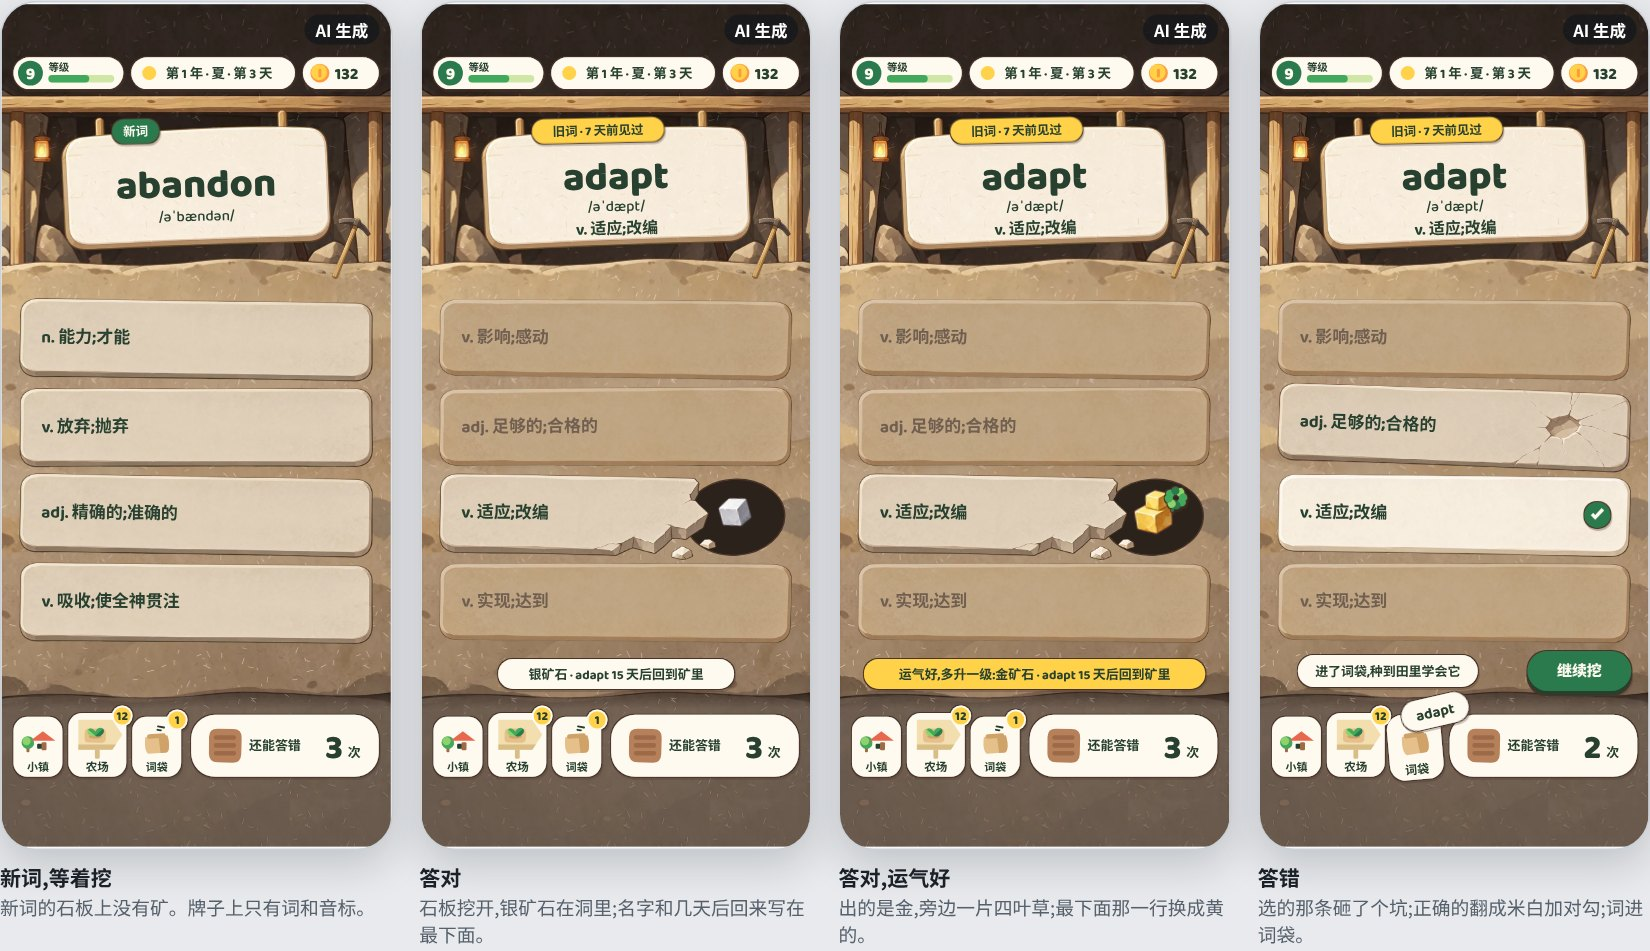
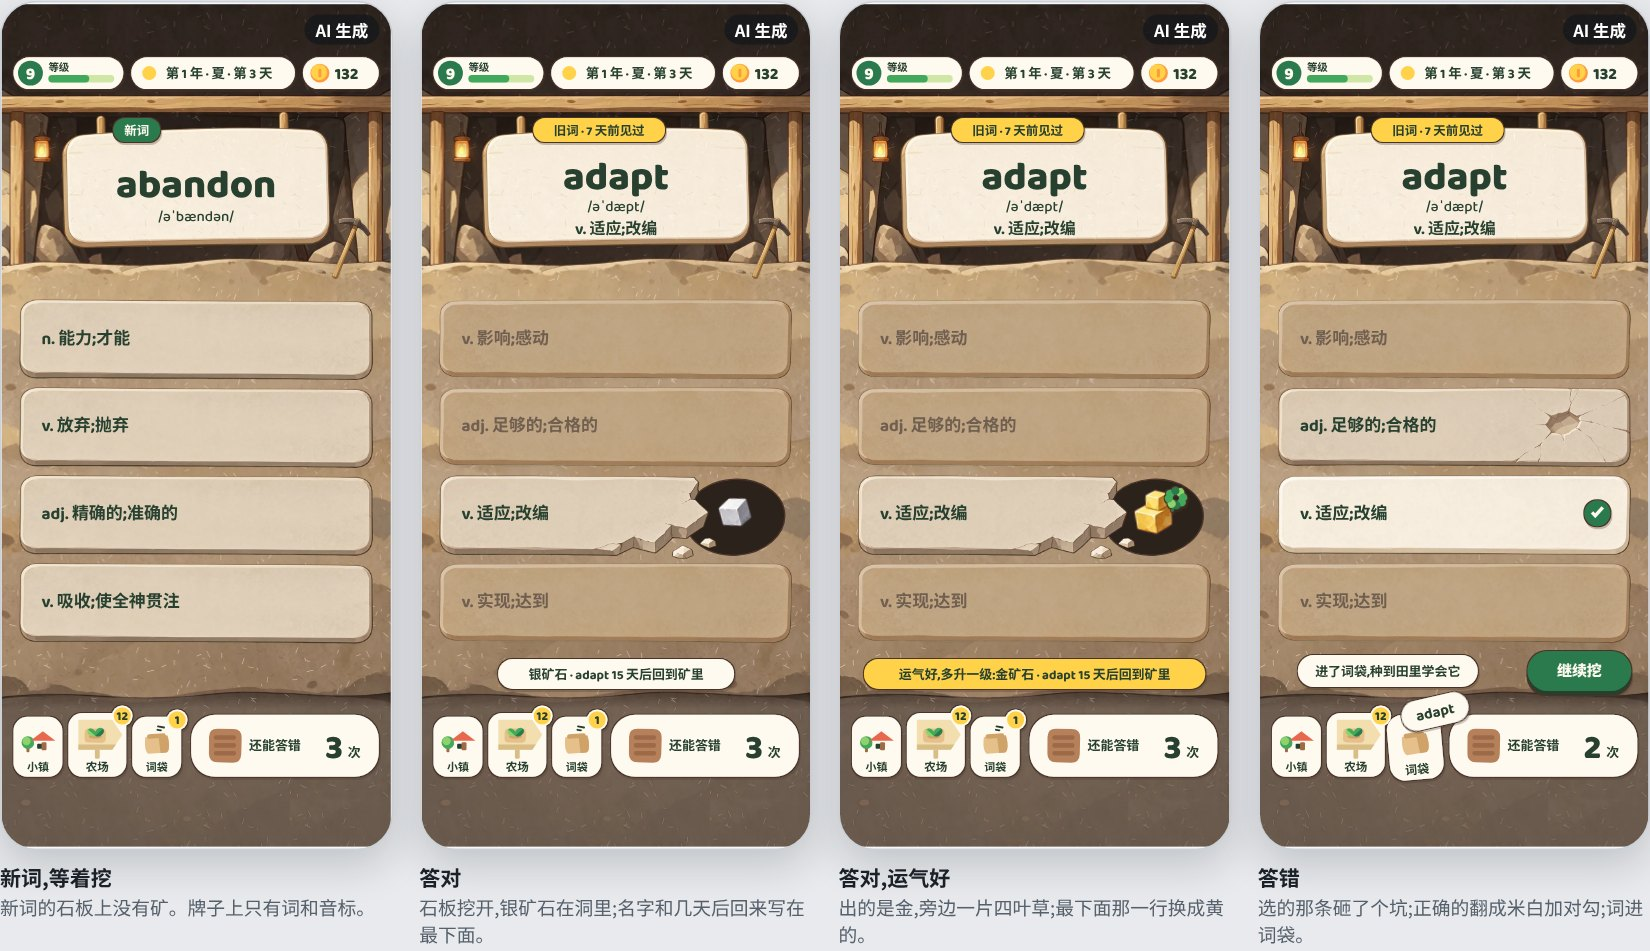
Set the mine's word sign and option slabs straight
The owner does not want boards or cards that carry text to sit at an
angle, because it gets in the way of reading. The sign's 1.2 degree
tilt, the slabs' small random tilts and the extra 2.2 degrees on the
missed slab all came from the paper mock-up and are now zero. The missed
slab is told apart by its crater and cracks alone.

Record the rule in decision 0030 and in the art spec's notice.

Claude-Session: https://claude.ai/code/session_01KLGgNjxFgtRsY37w3UzLNc

diff --git a/docs/design/cel-screens/cel-screens.js b/docs/design/cel-screens/cel-screens.js
@@ -317,16 +317,15 @@
     return minePic(base, 'pick', x, y, s, rot, 0.5, 0.13);
   }
   /**
-   * 一条石板。位置、歪多少和彩纸那一屏相同,只把石板换成素材。字的排法也相同,只有一处不同:所有状态按同一个宽度折行。
+   * 一条石板。位置和彩纸那一屏相同,只把石板换成素材。字的排法也相同,只有两处不同:所有状态按同一个宽度折行;石板不歪。
    * 返回三层:洞(挖开的那条后面露出的深色)、石板、字和标记。
    */
-  function mineSlab(base, y, label, seed, st, v) {
+  function mineSlab(base, y, label, st, v) {
     var x = 18,
       w = 354,
       h = 76,
-      // 和 mine-paper.js 的 slab 用同一个随机数,歪的角度才对得上字
-      rot = (LD.rng(seed * 53 + 11)() - 0.5) * 1.4 + (st === 'miss' ? 2.2 : 0),
-      tf = 'translate(' + x + ' ' + y + ') rotate(' + K.f(rot) + ' ' + w / 2 + ' ' + h / 2 + ')',
+      // 石板摆正,不歪:彩纸那一屏每条歪一点点、答错的那条再多歪 2.2 度,负责人 2026-11-22 定了有字的板子不歪,歪了影响读
+      tf = 'translate(' + x + ' ' + y + ')',
       body = pic(
         base,
         'slab-' + st,
@@ -400,12 +399,11 @@
       fx = '',
       cx = 195,
       cy = 183,
-      signTf = 'rotate(-1.2 ' + cx + ' ' + cy + ')',
       top = '',
       U = new k.Layer(),
       over = '';
     v.options.forEach(function (label, i) {
-      var s = mineSlab(base, ys[i], label, i + 1, k.optionState(v, i, sel), v);
+      var s = mineSlab(base, ys[i], label, k.optionState(v, i, sel), v);
       holes += s.hole;
       slabs += s.body;
       fx += s.fx;
@@ -414,7 +412,8 @@
     // 三层分开打上名字:石板、选项的字、盖在石板上的效果。tools/text_cover.mjs 靠这三个名字量"字被效果盖住了多少"
     o += holes + g('', slabs, ' class="ld-slab"') + (opt.bare ? '' : g('', texts, ' class="ld-opt"'));
     // 词牌:两根木条挂在梁上。牌子上只有词,不预告这次会出哪一级矿石(负责人 2026-11-22 定的)
-    o += g(signTf, minePic(base, 'sign', cx - 135, 107, 1, 0, 0, 0));
+    // 词牌也摆正(彩纸那一屏歪 1.2 度),理由和石板一样
+    o += minePic(base, 'sign', cx - 135, 107, 1, 0, 0, 0);
     // 答完之后是看答案的时候,石板那一块要安静(负责人 2026-11-22:游戏效果太强会让学习分心):
     // 镐一直靠在洞的右边,不落到石板上;矿石放在挖开的洞里,不出自己那一条;矿石的名字和"运气好"写到最下面那一行去。
     top += minePick(base, 354, 222, 22, 1.05);
@@ -428,7 +427,7 @@
         K.txt(cx, cy + (back ? 2 : 10), v.word, 40, K.C.ink, { a: 'middle' }) +
         K.txt(cx, cy + (back ? 24 : 34), v.ph, 15, K.C.ink, { a: 'middle', w: 500 }) +
         (back ? K.txt(cx, cy + 47, v.options[v.answer], 16, K.C.ink, { a: 'middle', w: 700 }) : '');
-    o += g(signTf, cel(g('', tag.shape, K.SH)) + tag.text + sign);
+    o += cel(g('', tag.shape, K.SH)) + tag.text + sign;
     var F = new k.Layer();
     if (right) {
       var ore = LD.celMineSprites['ore-' + grade] || { w: 30, h: 30 },

diff --git a/docs/design/cel-screens/index.html b/docs/design/cel-screens/index.html
@@ -370,7 +370,7 @@
       <div class="trio" id="mine-states" style="grid-template-columns:repeat(4,minmax(0,1fr));max-width:1100px"></div>
       <ul class="notes">
         <li><b>答对:</b>那条石板换成断开的一张,右边露出洞,矿石在洞里。其余三条换成"沉回矿壁"的一张。</li>
-        <li><b>答错:</b>选的那条换成砸出一个坑、裂纹散开的一张,歪 2 度多;正确的那条换成米白的一张,加一个对勾。</li>
+        <li><b>答错:</b>选的那条换成砸出一个坑、裂纹散开的一张;正确的那条换成米白的一张,加一个对勾。</li>
         <li><b>挖开之后露出的洞是代码画的一个深色椭圆,</b>不是素材,颜色是从背景里洞最深的地方量的。它边缘太齐,和手绘的石板放在一起看得出来。要好看得单独画一张。</li>
         <li><b>对勾、四叶草、最下面的提示条、按钮</b>仍然是代码画的。</li>
       </ul>
@@ -415,6 +415,17 @@
         <li><b>裂纹不进字的地方。</b>示例卡组里最长的释义(14 个字)放上去看过,字的末尾离裂纹还有一段。</li>
         <li><b>重出了一张图,</b>一次出了三个轻重不同的候选,用的是最上面的一个。另外两个一个像拼起来的石块,不像被砸的;一个裂到了石板中间,会压到字。</li>
       </ul>
+      <h3>石板和词牌摆正</h3>
+      <p class="sub">负责人的意见(原话):"我不想要词板或者卡片歪来歪去,影响阅读体验。"左边是之前的,右边是现在的。</p>
+      <div class="sheet ai"><img src="shots/mine-straight.jpg" alt="答错那一屏:之前词牌歪 1.2 度、石板各歪一点、答错的那条多歪 2.2 度;现在都是正的" loading="lazy" style="max-width:560px"></div>
+      <ul class="notes">
+        <li><b>之前歪的有三处,</b>都是照彩纸那一屏来的:词牌歪 1.2 度;四条石板各歪不到 1 度,每条不一样;答错的那条再多歪 2.2 度。现在都是 0。</li>
+        <li><b>答错的那条现在只靠坑和裂纹来认,</b>上一步刚把它画大。</li>
+        <li><b>还歪着的:</b>答错时从词牌落向词袋的那张写着词的小纸签(歪 13 度)。它是一个落下去的东西,不是用来读的,词在词牌上有。没有动,要摆正说一声。</li>
+        <li><b>彩纸的那几屏没有动。</b>农场、牧场这两屏里没有歪着的带字的板子。割草那一屏的词牌和草垄到重做时按这一条来。</li>
+      </ul>
+
+      <h3>答错的那条:三个候选</h3>
       <div class="sheet ai"><img src="shots/mine-miss-options.jpg" alt="三个候选:一个坑加散开的裂纹;右端碎成几块;右边四成龟裂" loading="lazy" style="max-width:420px"></div>
 
       <h3>素材一览</h3>

diff --git a/docs/decisions/0030-quiet-after-answer.md b/docs/decisions/0030-quiet-after-answer.md
@@ -1,4 +1,4 @@
-# 0030 答完之后选项那一块要安静:游戏效果不抢学习内容
+# 0030 答完之后选项那一块要安静,有字的板子不歪:游戏效果不抢学习内容
 
 - 日期:2026-11-22
 - 状态:生效。修改[美术规范](../design/07-art-direction.md#矿洞)里矿洞答完之后的画法;动效还没有做,够不够有游戏感没有验证
@@ -39,13 +39,17 @@
 | 挖出的矿石 | 放大 2.4 倍摆在洞口,压到上面一条 | 1.5 倍,留在挖开的洞里,不出自己那一条 |
 | 矿石的名字、"运气好" | 贴在石板之间 | 写在最下面那一行 |
 | 石板上的字 | 答对的那条折行变窄 | 所有状态按同一个宽度折行,答完不重排 |
-| 答错的那条石板 | 右端一个浅坑,镐停在上面 | 右端一个明显的坑,裂纹向四周散开,占右边三分之一;没有镐 |
+| 答错的那条石板 | 右端一个浅坑,镐停在上面,整条多歪 2.2 度 | 右端一个明显的坑,裂纹向四周散开,占右边三分之一;没有镐,不歪 |
+| 词牌和石板的角度 | 词牌歪 1.2 度,石板各歪不到 1 度 | 都是正的 |
 
 改完之后效果占的面积:答对 0.6%,运气好 1.4%,答错 0.6%(答错剩下的是正确答案上的对勾);被盖住的字都是 0。
 这个数只是面积,不是"有多抢眼"的度量,抢不抢眼最后要人看。
 
 **答错的那条是之后补的。** 镐拿走之后它只剩一个小坑,负责人看过之后要求"答错的词板再弄明显一点"。加强的是形状(坑和裂纹),
 没有用红色和叉([美术规范](../design/07-art-direction.md#用色规则)),裂纹不进字的地方。
+
+**有字的板子不歪,也是之后补的。** 负责人的原话:"我不想要词板或者卡片歪来歪去,影响阅读体验。"
+彩纸那一屏里的歪是为了像手贴的纸片;新画风里词牌和四条石板都摆正了。这一条不只管矿洞:以后带着要读的字的板子和卡片都不歪。
 
 ## 理由
 
@@ -67,6 +71,7 @@
 - **静止的画面比之前平淡。** "挖到矿石的高兴"现在要靠动效和声音,而动效还没有做。这是没有验证的一头:
   如果做出来之后答对不够痛快,要回来调,调的是那一瞬间的动效,不是把东西放回选项上。
 - **旧词石板上露着的那点矿没有动。** 它是读题时石板上唯一的装饰(占 1.2%),也是一种矿石预告。负责人没有提到它。
-- **割草那一屏是同一种做法**(词牌探出能割的草,镰刀落在被点的那一垄上),没有重做,到时候按这一条来。
+- **割草那一屏是同一种做法**(词牌探出能割的草,镰刀落在被点的那一垄上,词牌和草垄也是歪的),没有重做,到时候按这一条来。
+- **答错时落向词袋的那张小纸签还歪着**(13 度)。它是落下去的东西,不是用来读的;负责人说的是词板和卡片,所以没有动。
 - 美术规范的正文还是原来的写法,开头的说明里记了这一条,等重写时改。彩纸的那一屏没有动。
 - 没有问过任何目标用户。

diff --git a/docs/design/07-art-direction.md b/docs/design/07-art-direction.md
@@ -8,7 +8,7 @@
 > - **仍然有效的:** 排法、尺寸、每种状态怎么表示(干土加水滴、湿土、星带、收获标记、岩层的构图、房子在上草地在下)、字体、"不做什么"。新画风的画面就是照着这些重画的。
 > - **色板也仍然有效。** 负责人看过新画风的第一版之后定的:色调用彩纸的(第一版偏深、对比偏高)。新画面的草地、天、干土、湿土量出来和色板几乎一样。用色规则要逐条过:"蓝色只表示水"现在天也是浅蓝的。
 > - **状态的画法改了两处,新定了一处**([决策记录 0029](../decisions/0029-crop-states-in-sprites.md)):不生长不单独画,用健康的那张;枯萎是"蔫了但还能救",只发黄下垂,而且只有幼苗和成株两个阶段画,成熟的不画;死了的是一小堆干草,所有作物共用。下面"状态"一节写的还是彩纸的画法。
-> - **矿洞答完之后改安静了**(负责人 2026-11-22 看过用素材拼的矿洞之后定的:游戏效果太强会让学习分心,见[决策记录 0030](../decisions/0030-quiet-after-answer.md)和[新画风的画面](cel-screens/README.md#负责人看过之后改的答完之后要安静)):词牌右上角不再探出"会出的矿石";镐一直靠在洞的一角,不停到石板上;矿石留在挖开的洞里,名字和"运气好"写到最下面一行;答错的那条石板上的坑和裂纹画大了(仍然不用红色和叉)。下面"矿洞"一章写的还是原来的。
+> - **矿洞答完之后改安静了**(负责人 2026-11-22 看过用素材拼的矿洞之后定的:游戏效果太强会让学习分心,见[决策记录 0030](../decisions/0030-quiet-after-answer.md)和[新画风的画面](cel-screens/README.md#负责人看过之后改的答完之后要安静)):词牌右上角不再探出"会出的矿石";镐一直靠在洞的一角,不停到石板上;矿石留在挖开的洞里,名字和"运气好"写到最下面一行;答错的那条石板上的坑和裂纹画大了(仍然不用红色和叉);词牌和石板不歪了,以后有字的板子和卡片都不歪。下面"矿洞"一章写的还是原来的。
 > - **不再适用的:** "一句话"、原则 2 和 3、"形状"一章、"素材怎么做"。它们写的是彩纸。
 > - 彩纸的那几屏现在是布局稿:改排法先改它们,再按新画风重画。
 > - 按新画风重写本文之前,两边冲突的地方以决策记录 0028 和新画风的画面为准。

diff --git a/docs/design/cel-screens/README.md b/docs/design/cel-screens/README.md
@@ -42,6 +42,7 @@
 | [`mine-sprites.jpg`](shots/mine-sprites.jpg)、[`mine-misses.jpg`](shots/mine-misses.jpg) | 矿洞的素材一览;第一轮画错的四处 |
 | [`mine-redraw.jpg`](shots/mine-redraw.jpg) | 负责人看过之后改的:答完之后安静下来,之前和现在 |
 | [`mine-miss.jpg`](shots/mine-miss.jpg)、[`mine-miss-options.jpg`](shots/mine-miss-options.jpg) | 答错的那条石板:之前和现在;三个候选 |
+| [`mine-straight.jpg`](shots/mine-straight.jpg) | 石板和词牌摆正:之前和现在 |
 | [`tone.jpg`](shots/tone.jpg) | 色调:第一版和现在的,三屏各一对 |
 | [`mine-cave.jpg`](shots/mine-cave.jpg) | 矿洞:左边是第一版,右边是现在的(同一张画,只调亮了地面) |
 | [`ground.jpg`](shots/ground.jpg) | 底色:农场和牧场各三张,彩纸、调之前、调之后(只有场景,没有界面) |
@@ -363,6 +364,17 @@
 - **裂纹不进字的地方。** 示例卡组里最长的释义(14 个字)放上去看过,字的末尾离裂纹还有一段。
 - **重出了一张图,**一次出了三个轻重不同的候选([`mine-miss-options.jpg`](shots/mine-miss-options.jpg)),用的是最上面的一个。
   另外两个一个像拼起来的石块,不像被砸的;一个裂到了石板中间,会压到字。新的一条按原来那条的大小和颜色对齐过。
+
+**石板和词牌摆正。** 负责人的原话:"我不想要词板或者卡片歪来歪去,影响阅读体验。"
+
+![答错那一屏:歪的和正的](shots/mine-straight.jpg)
+
+*左边是之前的,右边是现在的。*
+
+- **之前歪的有三处,**都是照彩纸那一屏来的:词牌歪 1.2 度;四条石板各歪不到 1 度,每条不一样;答错的那条再多歪 2.2 度。现在都是 0。
+- **答错的那条现在只靠坑和裂纹来认。**
+- **还歪着的:**答错时从词牌落向词袋的那张写着词的小纸签(歪 13 度)。它是一个落下去的东西,不是用来读的,词在词牌上有。没有动。
+- 彩纸的那几屏没有动。农场、牧场这两屏里没有歪着的带字的板子。割草那一屏到重做时按这一条来。
 
 **动过的地方(不是模型画出来的原样):**
 

diff --git a/docs/decisions/README.md b/docs/decisions/README.md
@@ -37,7 +37,7 @@
 | [0027](0027-no-text-on-pasture-alert-mark.md) | 牧场一屏上不写"够吃几顿""饿了几天",点草垛、饲料桶、小屋、鸡舍才看到;草垛和饲料桶见底时用一个墨绿色的感叹号 | 生效 |
 | [0028](0028-art-direction-illustrated-cel.md) | 美术方向改为偏插画的赛璐璐(线稿加平涂),人物和场景都用;排法、尺寸、状态的表示法不变;规范还没重写 | 生效,取代 0015 |
 | [0029](0029-crop-states-in-sprites.md) | 新画风里作物的四种样子:不生长不单独画(用健康的那张);枯萎是蔫了但还能救,只有幼苗和成株两个阶段画;死了是一堆干草,所有作物共用 | 生效 |
-| [0030](0030-quiet-after-answer.md) | 答完之后选项那一块要安静:镐留在洞边,矿石留在洞里,名字写到最下面一行,词牌上不预告矿石;游戏感靠一瞬间的动效(还没做) | 生效 |
+| [0030](0030-quiet-after-answer.md) | 答完之后选项那一块要安静:镐留在洞边,矿石留在洞里,名字写到最下面一行,词牌上不预告矿石;有字的板子和卡片不歪;游戏感靠一瞬间的动效(还没做) | 生效 |
 
 ## 什么时候写一条
 
